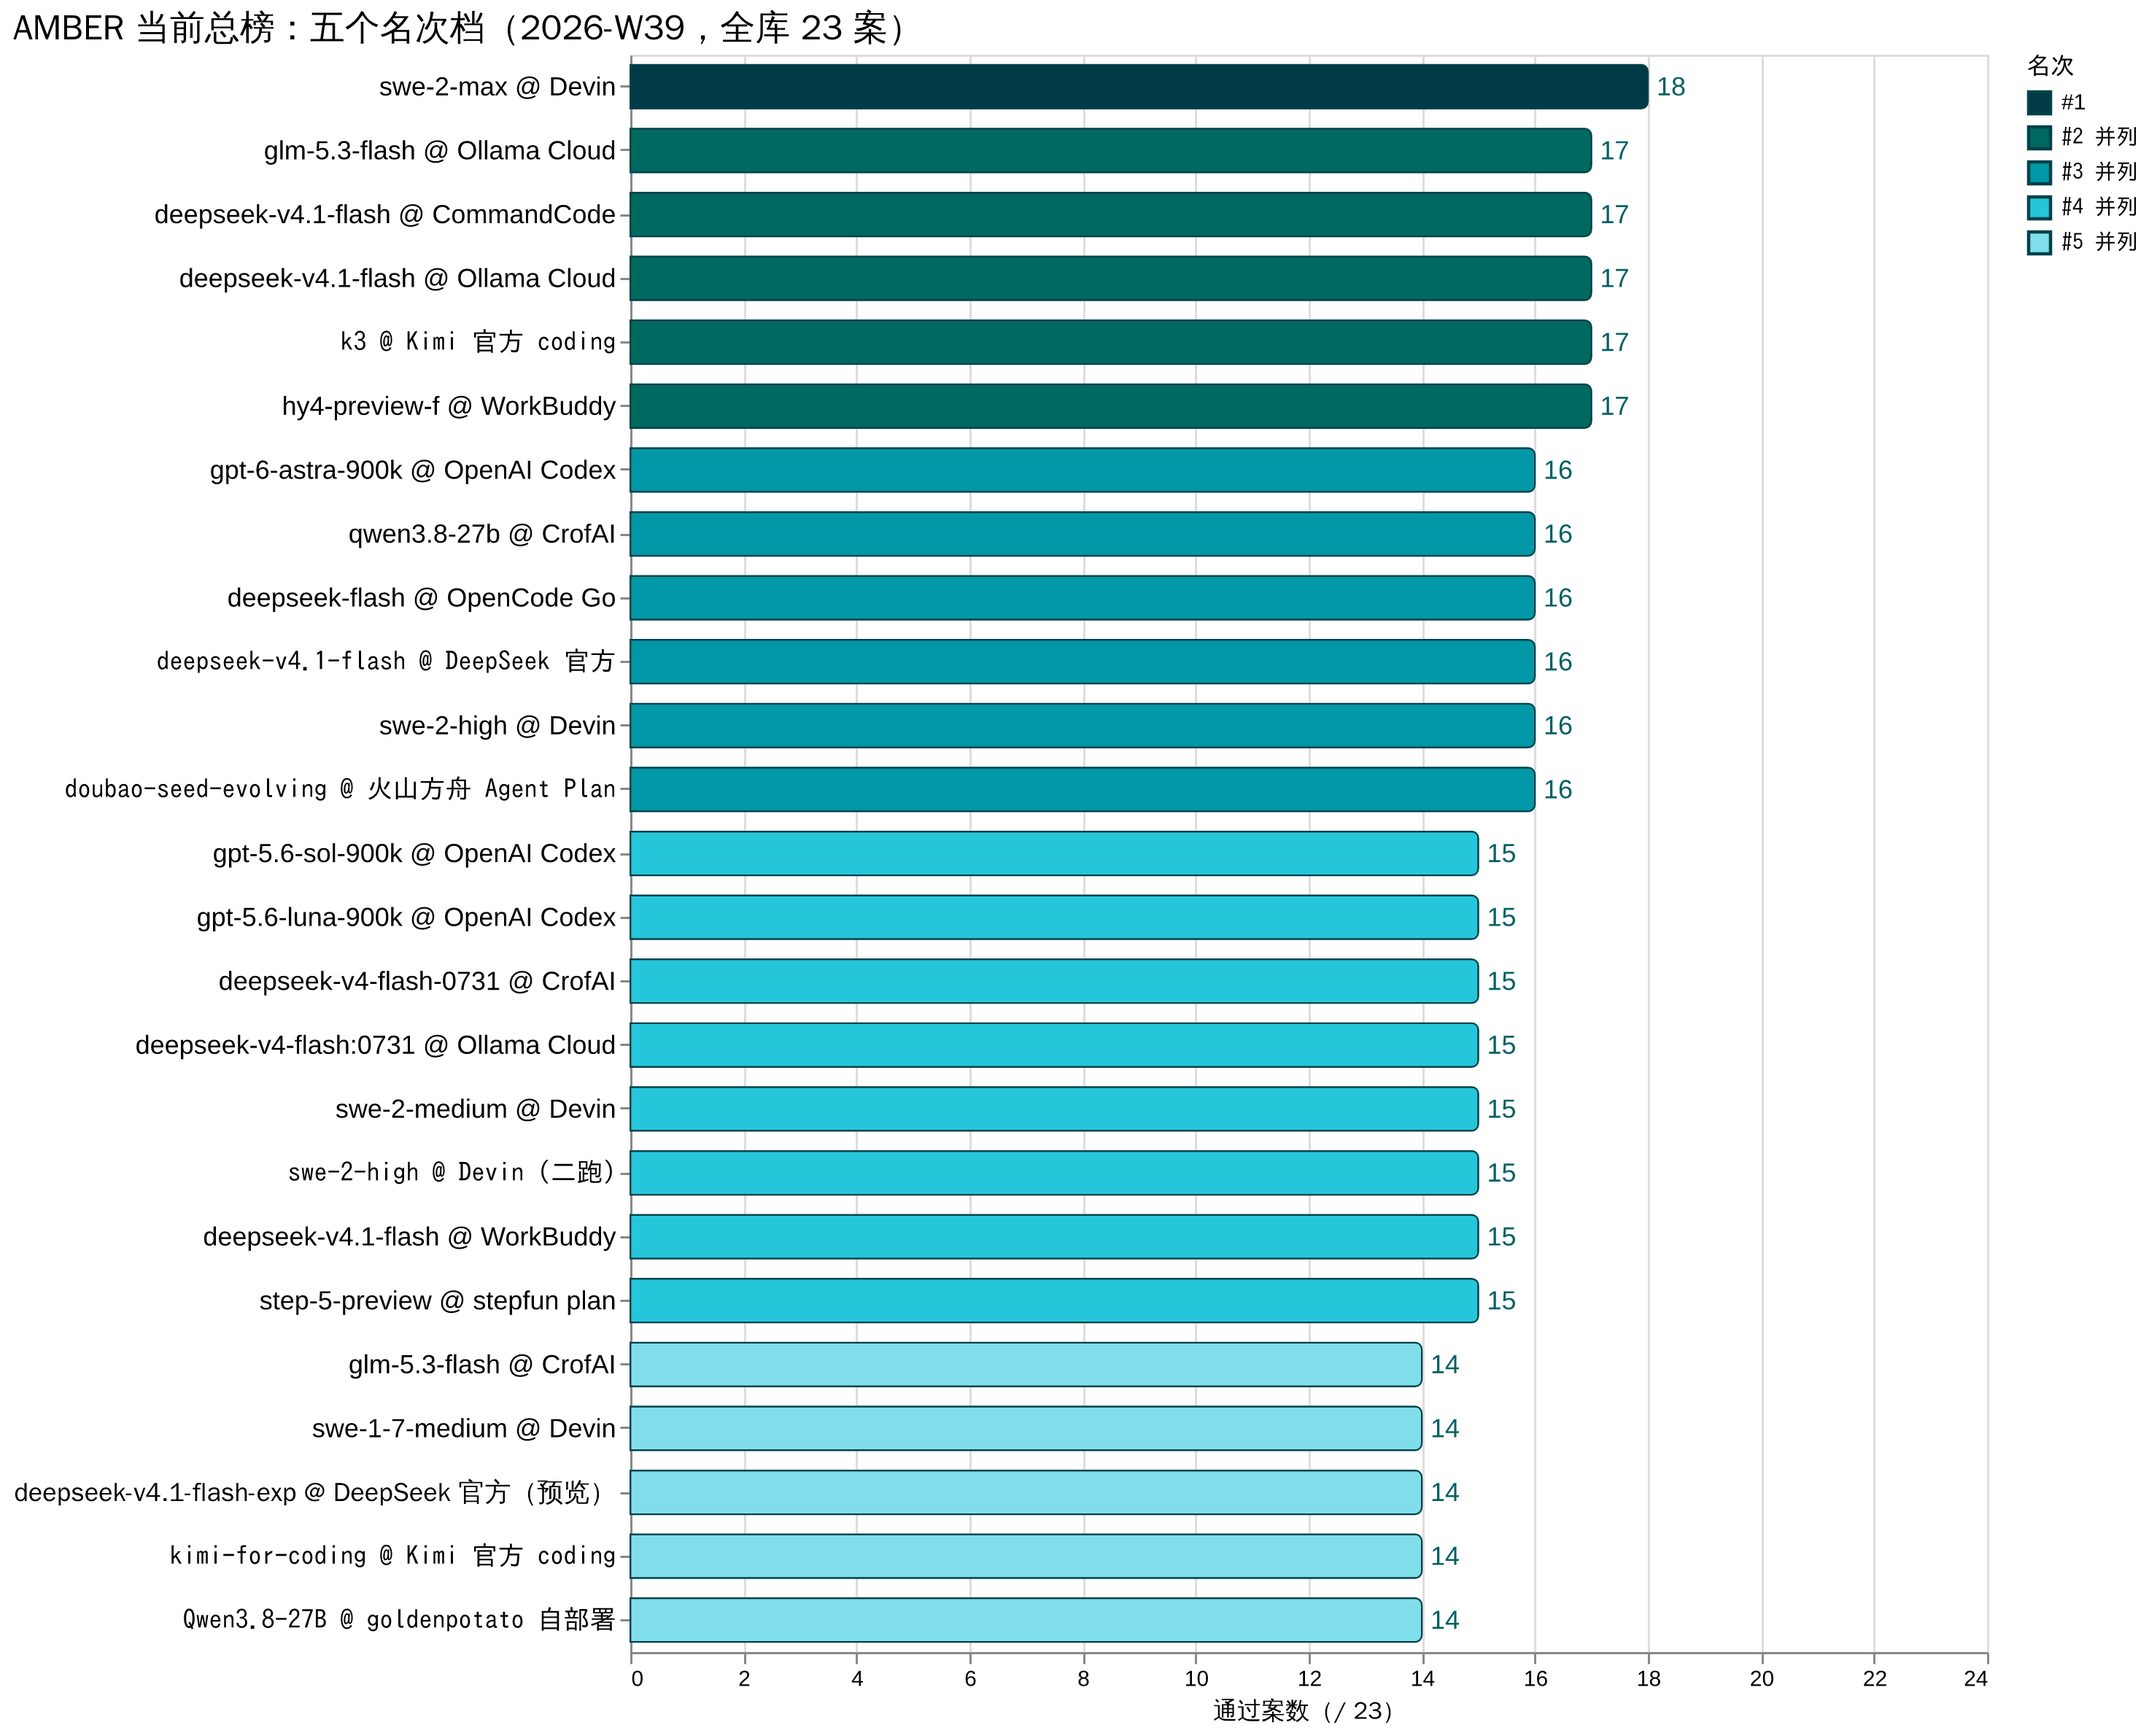
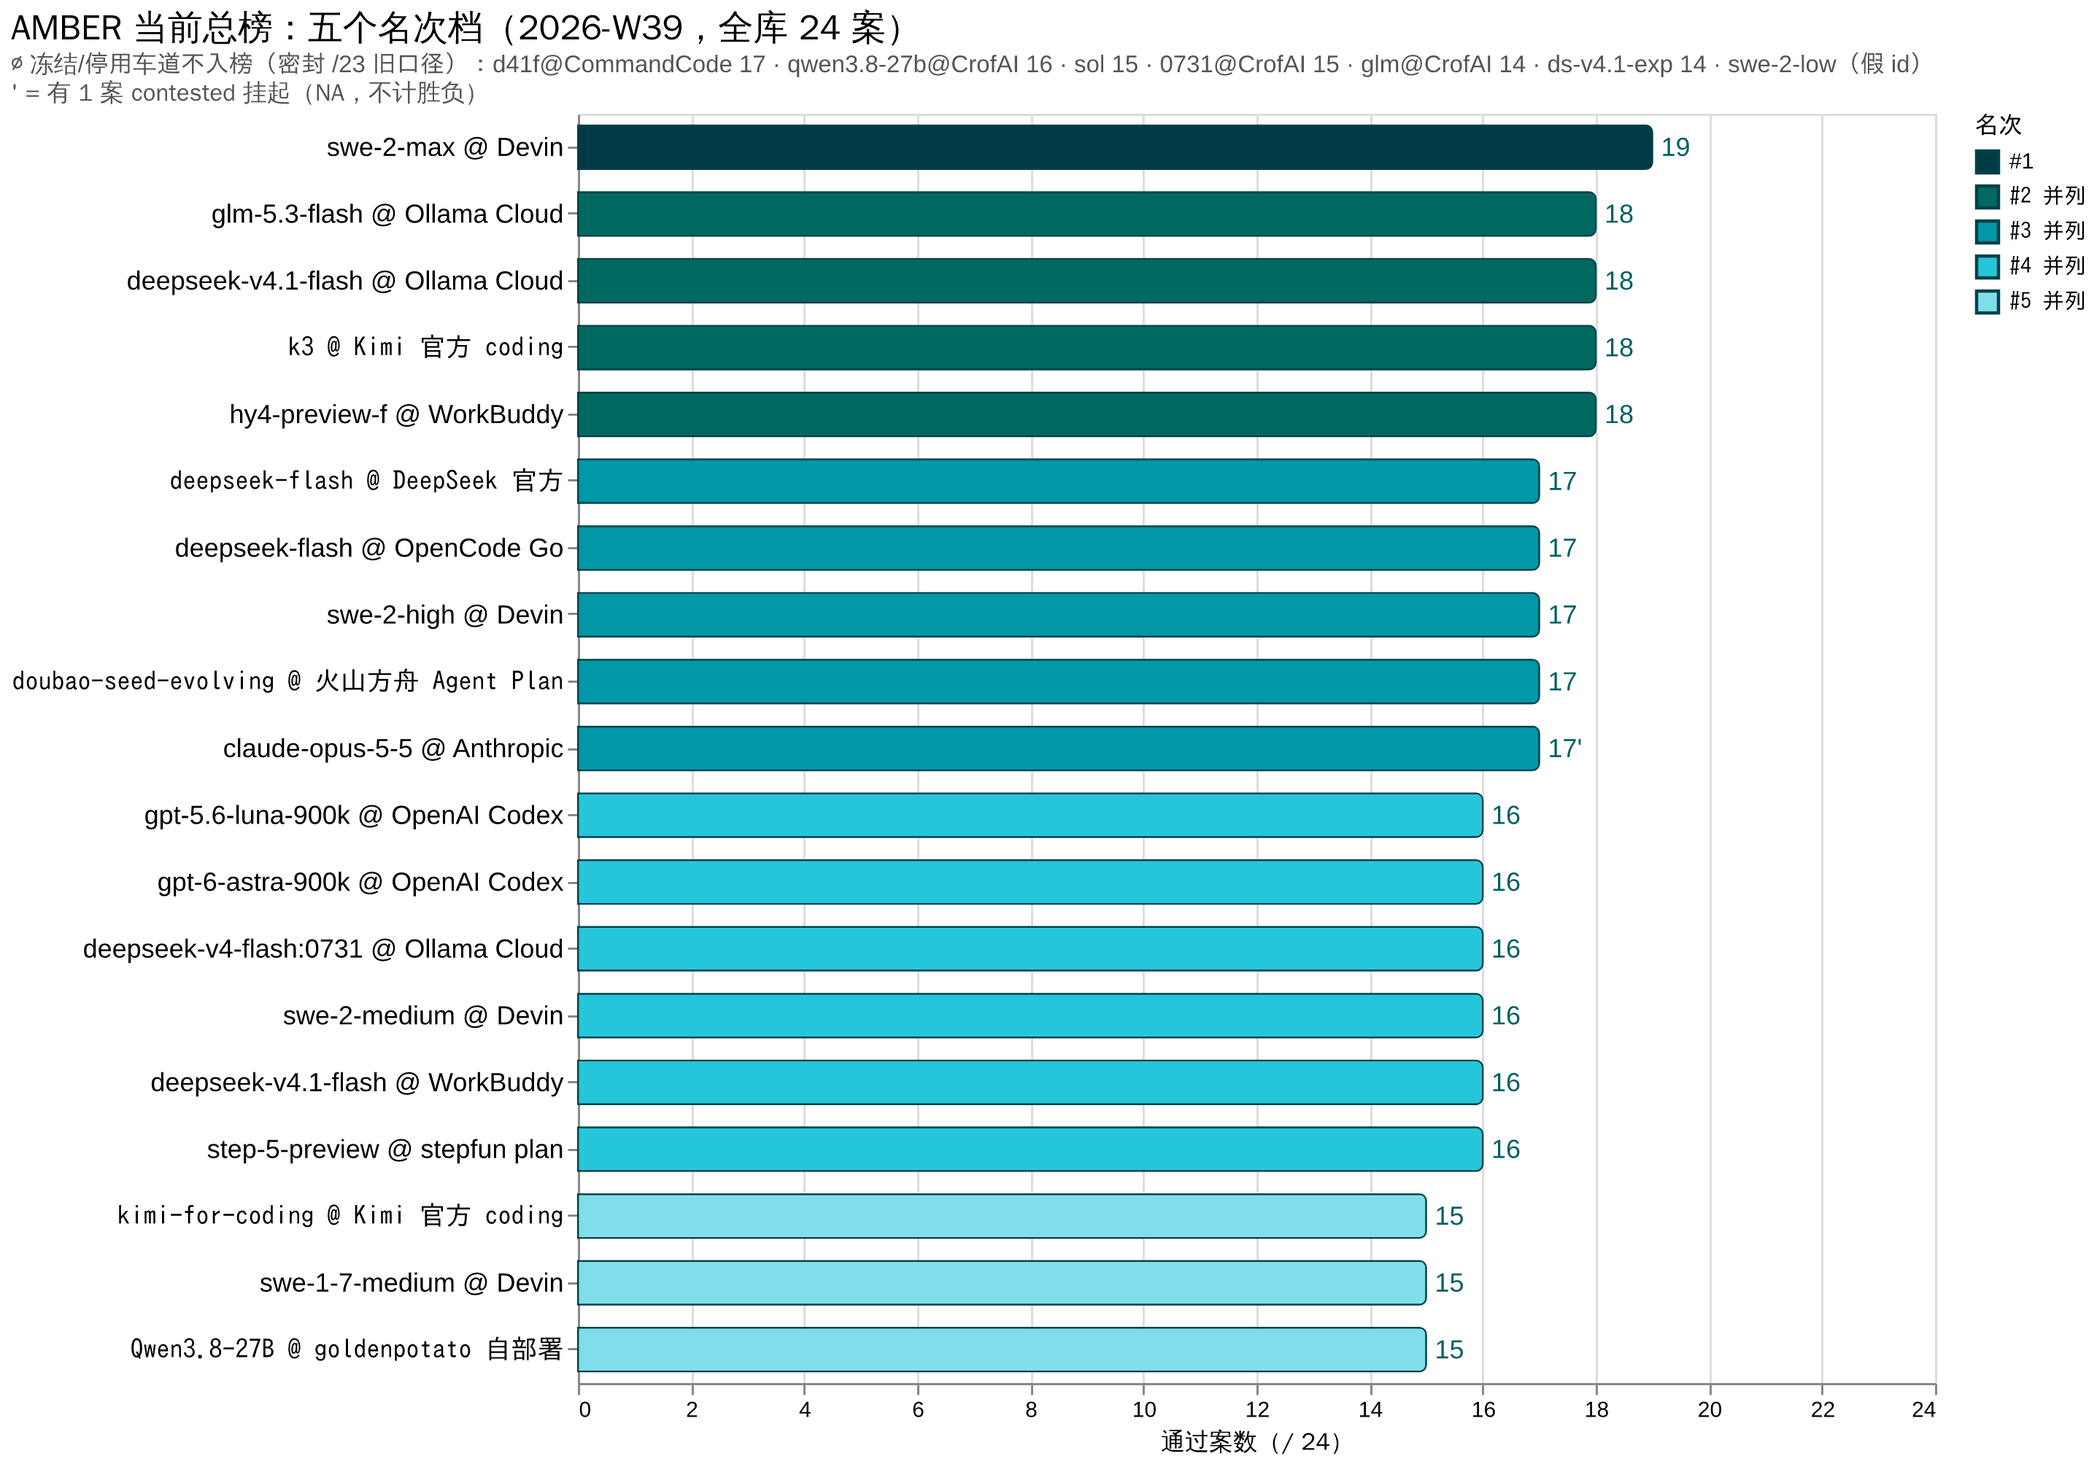
top5 W39 chart: flip to the /24 basis (title said 23-case), claude-opus-5-5 17' joins the #3 band, frozen lanes moved to subtitle (zh/en specs + PNGs)

diff --git a/README.en.md b/README.en.md
@@ -17,7 +17,7 @@ A formal evaluation method. Take a **real, auditable** historical incident and r
 
 **① Current leader** — **swe-2-max @ Devin, 19/24** (since 2026-09-21 the convergence case A-3f2a9cdd counts toward the headline: swe-2-max ✓ fast 37s; previously 18/23 on the 23-case basis; band curve medium 15 < high 16 < max 18). The same model name on a different endpoint can be a different brain, so we record scores per endpoint × name:
 
-![Current top five 2026-W39](docs/images/top5-2026-w39.en.png?v=20260921)
+![Current top five 2026-W39](docs/images/top5-2026-w39.en.png?v=20260923)
 
 **② Completion profile: same score, different shape** — ten-axis completion matrix (nine axes until 09-21, when the **Convergence** axis joined), seven lanes side by side; the former five-way 17/23 tie broke up in the convergence make-ups: k3 / glm-5.3-flash / v4.1-flash @ Ollama / hy4 now sit at 18/24, while the CommandCode lane was frozen at ∅ at the owner's call — same score, five different shapes (pin-level completion; negative defect-hunt scores still count). The new k3 row at a glance: an empty dot on UI (the incomplete-deliverable case), attribution below the top pair, vision tied for best with glm-5.3-flash. Added 09-16, the doubao 16/23 row: full marks on all four construction axes (coding/delivery/ops/requirements), level with the leaders — but empty dots on UI and vision, review at a third — the most lopsided shape on the field. Its two verification axes (attribution/defense) were harness-walled in the main sweep and landed real scores in a 3600s makeup (0.47 / 0.50 — low but real; [amber-doubao W38 addendum](https://github.com/getaskclaw/amber-doubao/blob/main/results/2026-W38.md)). Negative defect-hunt scores are floored at 0. Added 09-17, the gp27b 14/23 row (Qwen3.8-27B @ goldenpotato community self-hosted): an even more lopsided shape than doubao — construction group at the leaders' level (coding 0.83 / delivery full / ops 0.97 / requirements full) while review/vision/UI sit at absolute zero and attribution/defense at the field's bottom band; aggressive NVFP4 quantization cost nothing on the hands-on faces and everything on the judgment faces ([amber-goldenpotato W38](https://github.com/getaskclaw/amber-goldenpotato/blob/main/results/2026-W38.md)):
 

diff --git a/README.md b/README.md
@@ -19,7 +19,7 @@
 
 **① 当前榜首** —— **swe-2-max @ Devin，19/24**（2026-09-21 起收敛轴首案 A-3f2a9cdd 并入记分：swe-2-max ✓ fast 37s；原 23 案口径 18/23，档线 medium 15 < high 16 < max 18）。同名模型换个端点，可能就是另一个脑：成绩一律按「端点 × 名字」记。
 
-![当前前五 2026-W39](docs/images/top5-2026-w39.png?v=20260921)
+![当前前五 2026-W39](docs/images/top5-2026-w39.png?v=20260923)
 
 **② 完成度画像：同分 ≠ 同款** —— 十轴完成度矩阵（09-21 起九轴升十轴，新增**收敛**轴）七家同场；原 17/23 五家并列在收敛补测后分流：k3 / glm-5.3-flash / v4.1-flash @ Ollama / hy4 四家 18/24，CommandCode 道 owner 令冻结 ∅，同分五种形状（钉级完成度；找茬分拿了负分也照记）。新补的 k3 行一眼读：UI 是空点（交付缺文件那案）、归因低于头部两家、视觉与 glm-5.3-flash 并列最高。09-16 再补 doubao 16/23 行：施工四轴（编码/交付/运维/需求）满格与头部对齐，但 UI/视觉空点、审查仅三分之一——形状是同场最偏科的一条；核验两轴（归因/防御）初扫考墙 ∅，3600s 补考落到真值 0.47/0.50（低分但真实，见 [amber-doubao W38 addendum](https://github.com/getaskclaw/amber-doubao/blob/main/results/2026-W38.md)）；找茬分负分按 0 落点。09-17 再补 gp27b 14/23 行（Qwen3.8-27B @ goldenpotato 社区自部署）：偏科比 doubao 更极端——施工组四轴贴着头部（编码 0.83 / 交付满 / 运维 0.97 / 需求满），审查/视觉/UI 三轴全零，归因/防御落在全场最低档；NVFP4 激进量化在动手面无损，在判断面全灭（[amber-goldenpotato W38](https://github.com/getaskclaw/amber-goldenpotato/blob/main/results/2026-W38.md)）：
 
